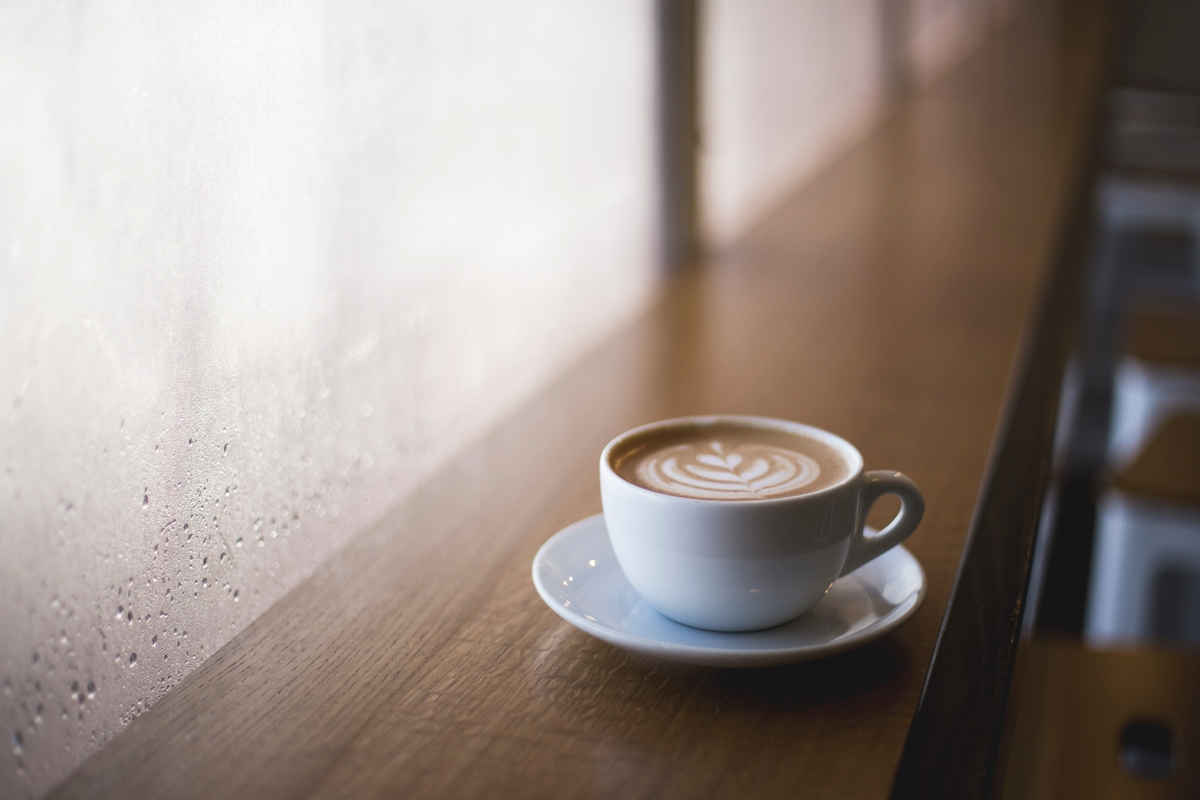
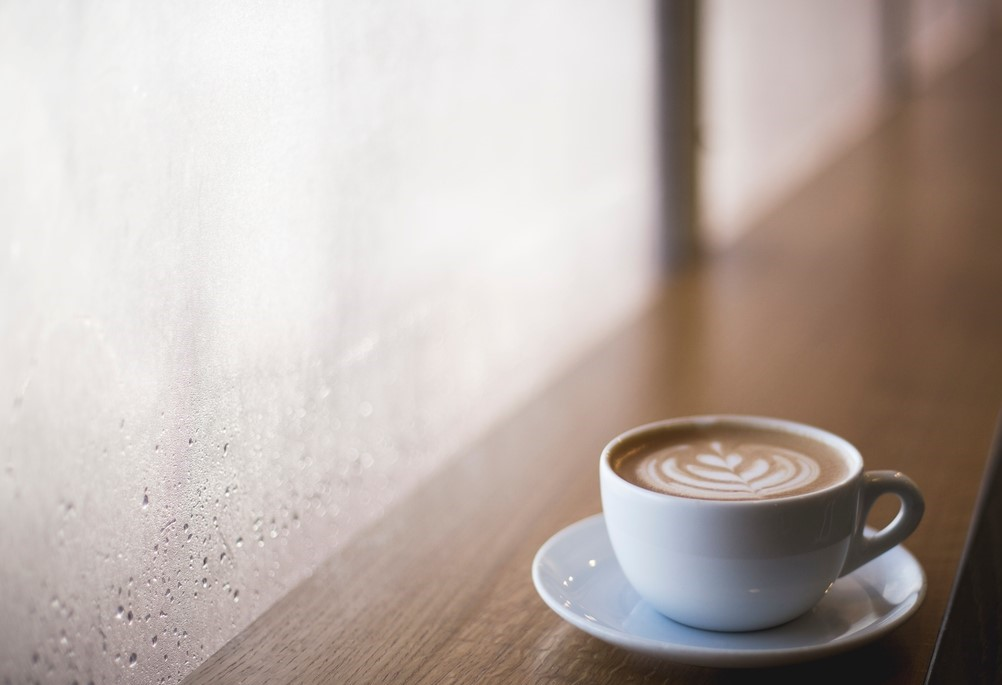
chang backgroud and fix align problem and text content

diff --git a/styles/style.css b/styles/style.css
@@ -9,12 +9,12 @@ html{
   scroll-behavior: smooth;
 }
 .section1{
-  height: 95vh;
+  height: 98vh;
   background-color: rgb(10, 10, 10);
-  background-image:linear-gradient(rgba(0, 0, 0, 0.55),rgba(0,0,0,0.55)), url("../img/coffee_shop.jpg"); 
+  background-image:linear-gradient(rgba(0, 0, 0, 0.55),rgba(0,0,0,0.55)), url("../img/coffee.jpeg"); 
   background-repeat: no-repeat;
-  background-position: center;
-  background-size:cover;
+  background-position:center;
+  background-size:100%;
 }
 .topnav{
   font-weight:700;
@@ -49,16 +49,22 @@ nav{
   text-decoration: underline;
 }
 .section1_content{
-  height: 75vh;
+  background-color: rgba(26, 28, 29, 0.323);
+  height: 50vh;
+  width: 86vw;
   color: #f8f1f1;
   display: flex;
   flex-direction: column;
   align-items: center;
   justify-content: center;
+  margin: 8vh 7vw;
+  border-radius: 50px;
 }
 .section1_content h2{
-  
-  font-size: 4vw;
+  text-align:justify;
+  font-size: 3vw;
+  font-optical-sizing: auto;
+
 }
 
 .section2  {

diff --git a/index.html b/index.html
@@ -18,8 +18,13 @@
                 </ul>
         </nav>
         <div class="section1_content">
-            <h2>歡迎來到我製作的自我介紹網站</h2>
-            <h2>網站目前仍然在製作改善中，請多包涵</h2>
+            <h2>歡迎光臨My_website<br>
+                我是製作者&emsp;許博竣<br>
+                目前這在學習CS基礎、程式語言以及Linux OS操作<br>
+                之後會不定時更新網站以及補上作品集連結<br>
+                期望能更熟練這些工具
+            </h2>
+            
         </div>
             
         </section>   

diff --git a/styles/pg1_style.css b/styles/pg1_style.css
@@ -5,15 +5,21 @@ body{
     background-repeat: no-repeat;
     background-position: center;
     background-size:cover;
+    display: flex;
+    align-items:center ;
+    justify-content: center;
   }
   .section1_content{
-    height: 75vh;
+    background-color:rgba(33, 29, 29, 0.46);
+    border-radius:80px;
+    height: 50vh;
+    width: 85vw;
     color: #f8f1f1;
     display: flex;
     flex-direction: column;
-    align-items: center;
+    align-items:center ;
     justify-content: center;
   }
   .section1_content h2{
-    font-size: 5vw;
+    font-size: 4vw;
   }
